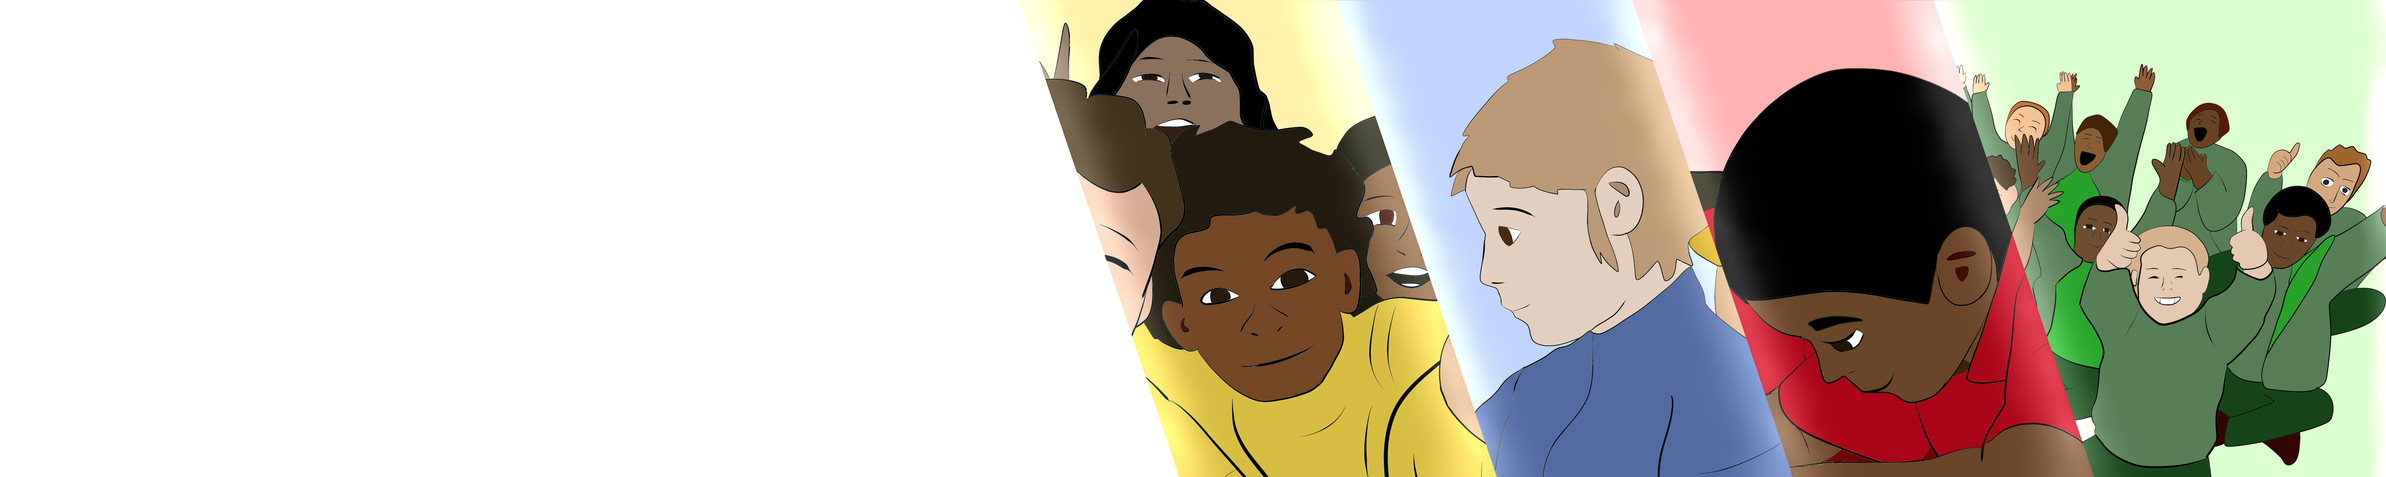
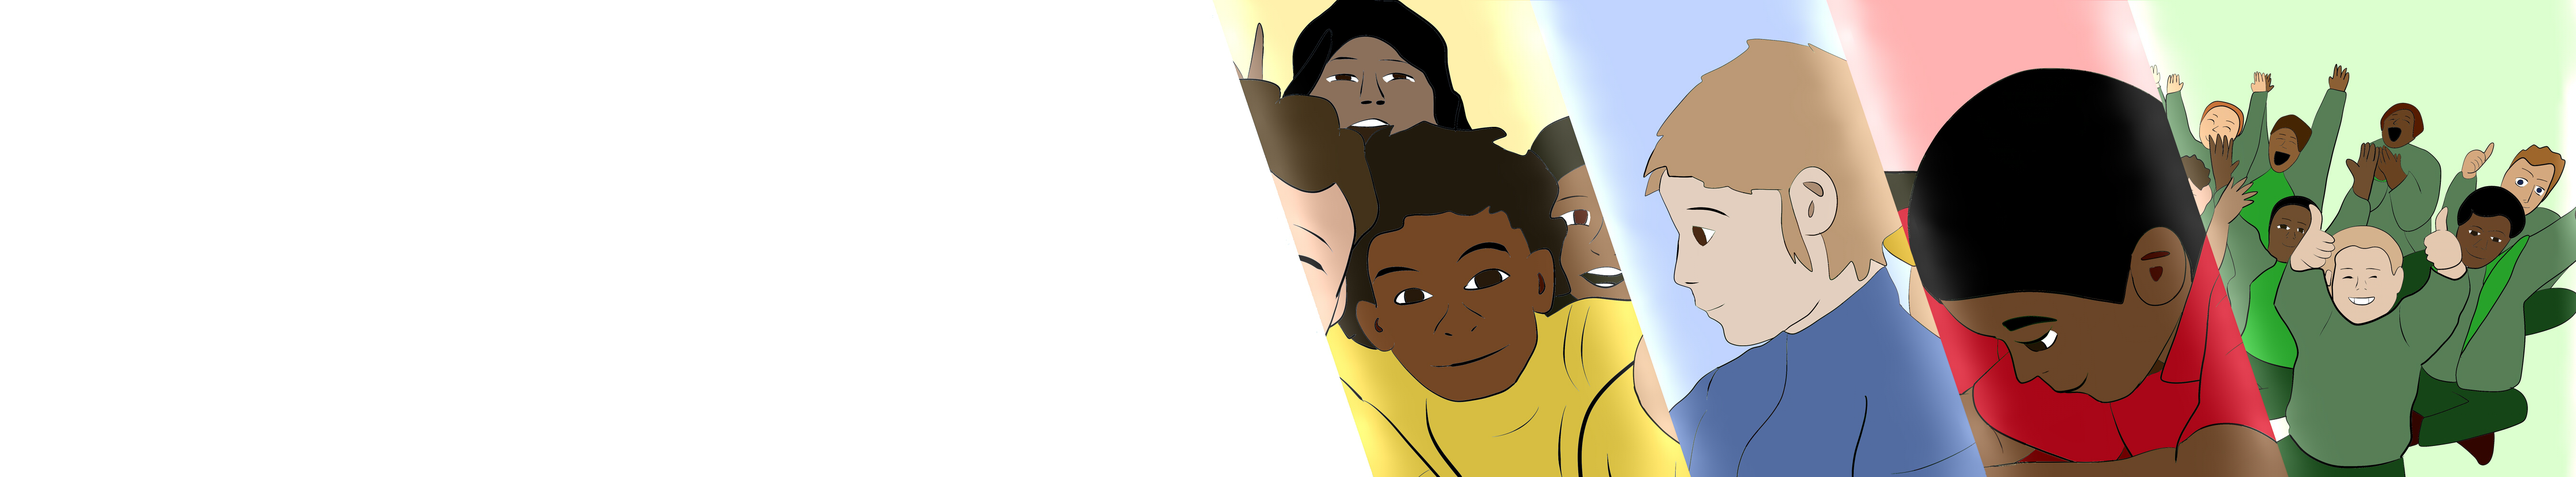
UI redone

diff --git a/TeachersGuide/wwwroot/css/style.css b/TeachersGuide/wwwroot/css/style.css
@@ -44,7 +44,8 @@ body {
 
 
 .secondary-navbar {
-    background-color: #0a7cb9;
+    /*background-color: #0a7cb9;*/
+    background-color: #802A90;
     font-family: gothammedium;
     padding: 4px;
 }
@@ -63,31 +64,50 @@ ul li {
 }
 
 .banner {
-    background-image: url('../Images/Cover2.png');
+    background-image: url('../Images/Cover6.png');
     background-repeat: no-repeat;
     background-size: 100% 100%;
-    height: 600px;
+    height: 500px;
     padding: 0;
     margin-bottom: 0;
 }
 
 .overlay {
-    background: rgb(0, 0, 0);
-    background: rgba(0, 0, 0, 0.5); /* Black see-through */
+    /*background: rgb(0, 0, 0);*/
+    /*background: rgba(0, 0, 0, 0.5); /* Black see-through */
+    /*background:white;*/
     color: #f1f1f1;
     width: 100%;
     height: 100%;
+    padding:50px;
+}
+
+.scrim-protect {
+    background: rgba(51,49,50,.75); /* Black see-through */
+    padding: 40px 22px;
+    border-top: 4px solid #F1590C;
 }
 
 .introduction, .buttons {
-    text-align: center;
-    padding: 10px;
-    text-align: center;
+    color: #F4F4F9;
+    margin-bottom: 20px;
 }
 
 .btn-primary {
-    background-color: #f9be00;
+    background-color: #F1590C;
     border: 0;
+    color: whitesmoke;
+    border-radius:0px;
+    font-size:18px;
+    font-family:'Arial Rounded MT';
+}
+
+.btn-primary:hover  {
+    background: #D14C0A; 
+}
+
+.btn-primary::after{
+    background:green;
 }
 
 .btn-secondary {
@@ -101,24 +121,151 @@ ul li {
     color: white;
 }
 
-    .btn-select a {
-        color: white;
-        text-align: center;
-        font-weight: bold;
-    }
+.btn-select a {
+    color: white;
+    text-align: center;
+    font-weight: bold;
+}
 
-        .btn-select a:hover {
-            text-decoration: none;
-        }
+.btn-select a:hover {
+    text-decoration: none;
+}
 
 .introduction {
-    font-size: 45px;
-    font-family: gothambold;
+    font-size: 30px;
+    font-family:'Arial Rounded MT';
+    letter-spacing:0.5px;
 }
 
 button {
-    font-size: 29px;
+    font-size: 28px;
 }
+
+.intervention-tab {
+    border: 1px lightgrey solid;
+    margin-bottom:90px;
+}
+
+.intervention-tab li{
+    border-bottom:1px solid lightgrey;
+    padding:5px;
+}
+
+.intervention-tab li a{
+   
+}
+#myTabContent{
+    padding:20px 5px;
+    height:auto;
+}
+
+    /*#myTabContent::before,
+    #myTabContent::after {
+        content: '';
+        position: absolute;
+        top: 0;
+        right: 0;
+        border-color: transparent;
+        border-style: solid;
+    }
+
+
+    #myTabContent::after {
+        border-width: 1.35em;
+        border-right-color: #0c0;
+        border-top-color: #0c0;
+    }*/
+
+.icon-group .fa{
+    font-size:30px;
+}
+
+.icon-group .fa .icon-text{
+    font-size:15px;
+    font-family:gothambold;
+    text-decoration:underline;
+}
+.nav-item-Communication {
+    border-left: 8px solid #0A7CB9;
+
+}
+.nav-item-Environmental {
+    border-left: 8px solid #69B32D;
+}
+.nav-item-Social {
+    border-left: 8px solid #F9BE00;
+}
+.nav-item-Learning {
+    border-left: 8px solid #D7153A;
+}
+
+.nav-item-Communication a {
+    color: black;
+}
+.nav-item-Environmental a {
+    color: black;
+}
+.nav-item-Social a {
+    color: black;
+}
+.nav-item-Learning a {
+    color: black;
+}
+
+.hide-right-border {
+    border-right: 0px solid black;
+    border-left-width: 12px;
+    animation-name: pulse;
+    animation-duration: 0.5s;
+    -webkit-transform: scale3d(1.02, 1.02, 1.02);
+    transform: scale3d(1.02, 1.02, 1.02);
+}
+
+@-webkit-keyframes pulse {
+    from {
+        -webkit-transform: scale3d(1, 1, 1);
+        transform: scale3d(1, 1, 1);
+    }
+
+    50% {
+        -webkit-transform: scale3d(1.02, 1.02, 1.02);
+        transform: scale3d(1.02, 1.02, 1.02);
+    }
+
+    to {
+        -webkit-transform: scale3d(1, 1, 1);
+        transform: scale3d(1, 1, 1);
+    }
+}
+
+.tab-pane{
+    height:inherit;
+}
+
+.icon-group{
+    height:inherit;
+    margin-top:30px;
+}
+@keyframes pulse {
+    from {
+        -webkit-transform: scale3d(1, 1, 1);
+        transform: scale3d(1, 1, 1);
+    }
+
+    50% {
+        -webkit-transform: scale3d(1.05, 1.05, 1.05);
+        transform: scale3d(1.05, 1.05, 1.05);
+    }
+
+    to {
+        -webkit-transform: scale3d(1, 1, 1);
+        transform: scale3d(1.02, 1.02, 1.02);
+    }
+}
+.list-group-item:first-child, .list-group-item:last-child {
+    border-radius: 0px;
+}
+
 
 .footer {
     padding: 50px 0;
